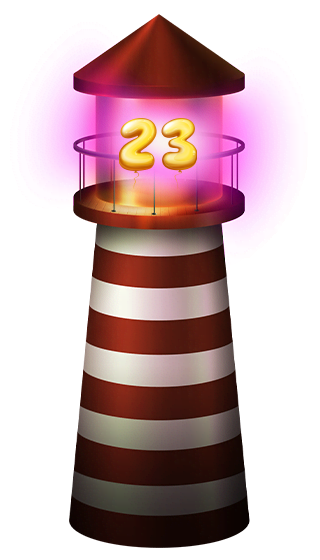
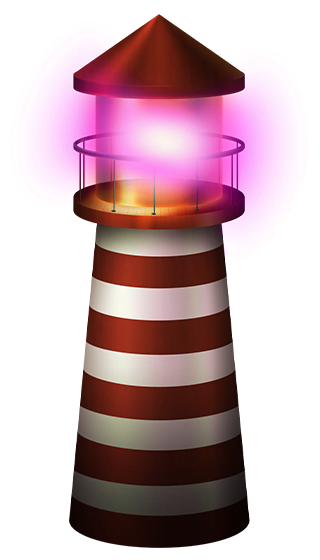
update

Changed region(s): [[0.375, 0.2125, 0.625, 0.3339]]

diff --git a/index.html b/index.html
@@ -67,7 +67,6 @@
                 <div class="Wheel">
                     <img src="assets/images/bg.svg" alt="bh">
                     <!-- <div id="name_small" class="fixed-bottom name bbname">NAME</div> -->
-                    <img id="name_small" class="name" src="assets/images/born.svg" alt="born baby name">
                 </div>
             </li>
             <li class="layer" data-depth="0.15">
@@ -114,7 +113,6 @@
             <li class="layer" data-depth="0.60">
                 <div class="lighthouse depth-60"></div>
                 <!-- <div id="name_big" class="fixed-bottom name bbname">NAME</div> -->
-                <img id="name_big" class="fixed-bottom name floatMove" src="assets/images/born.svg" alt="born baby name">
             </li>
 
             <li class="layer" data-depth="0.60">
